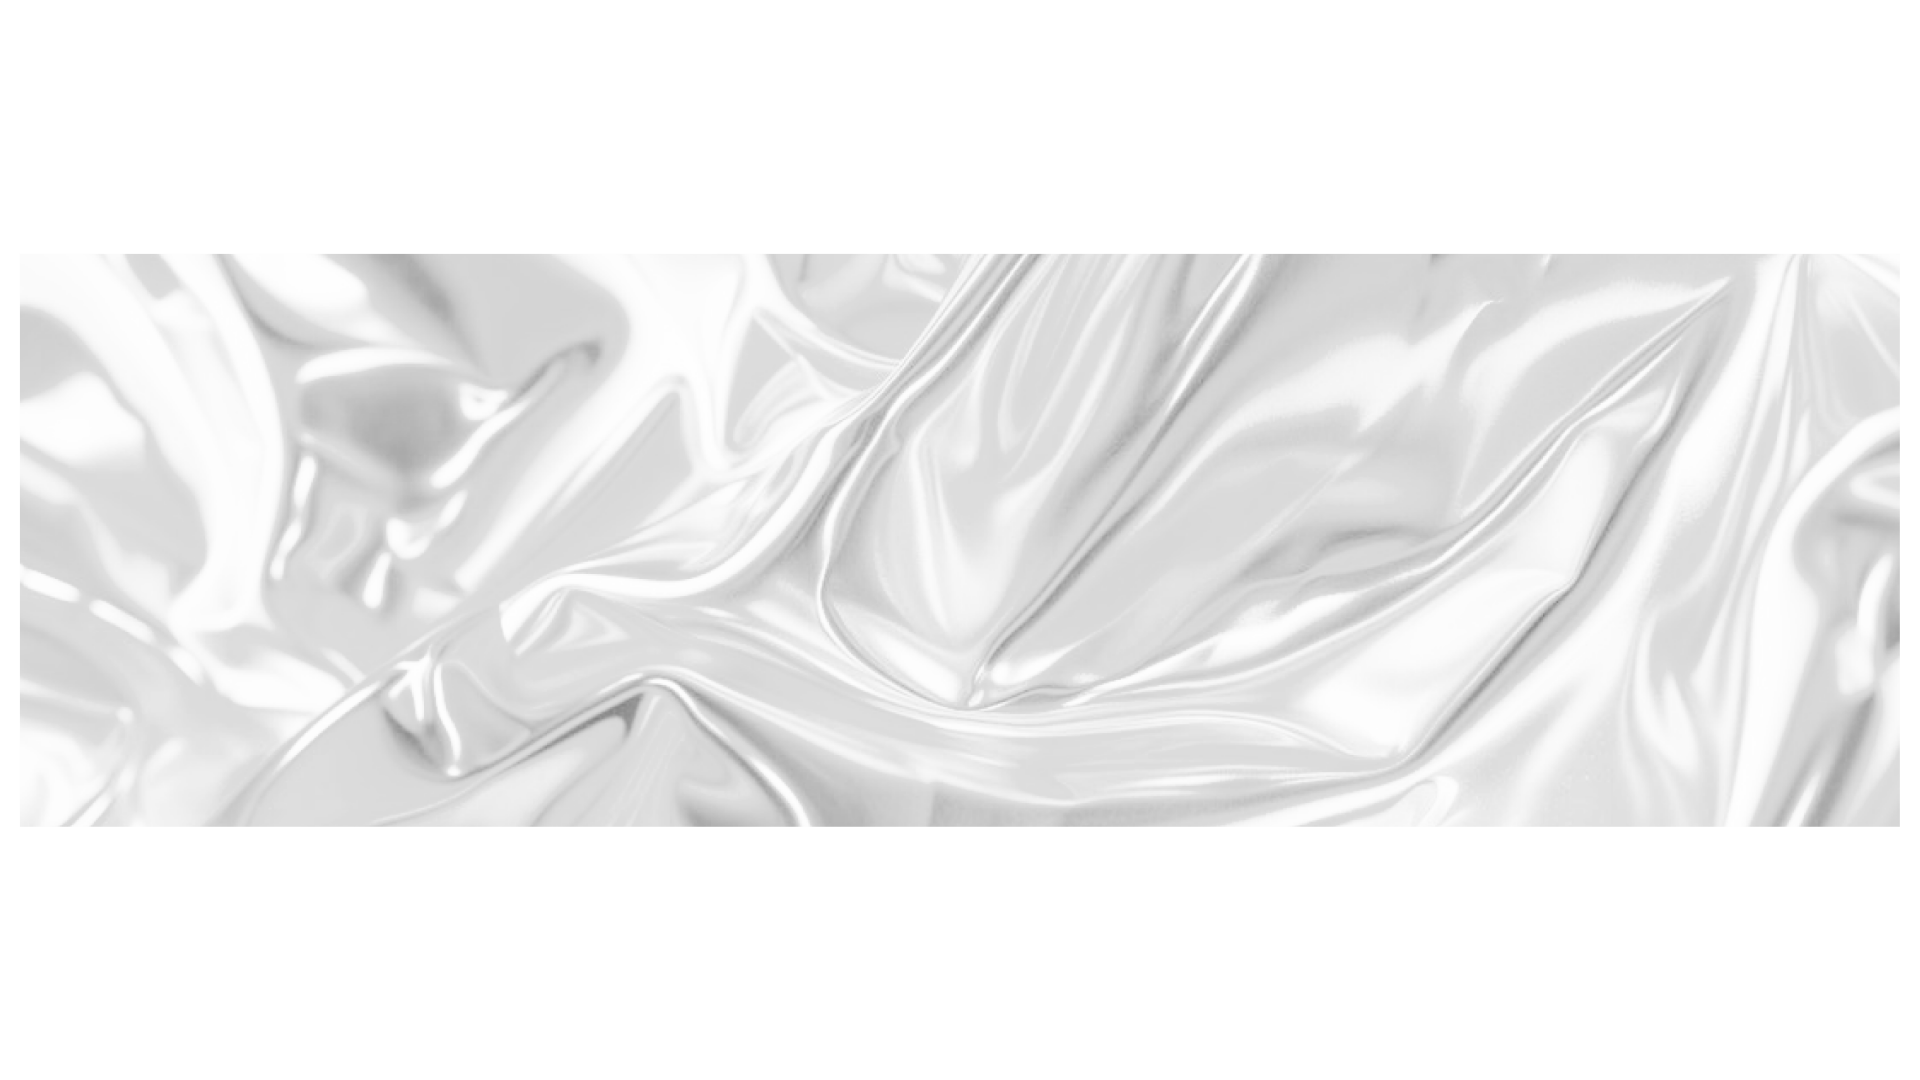
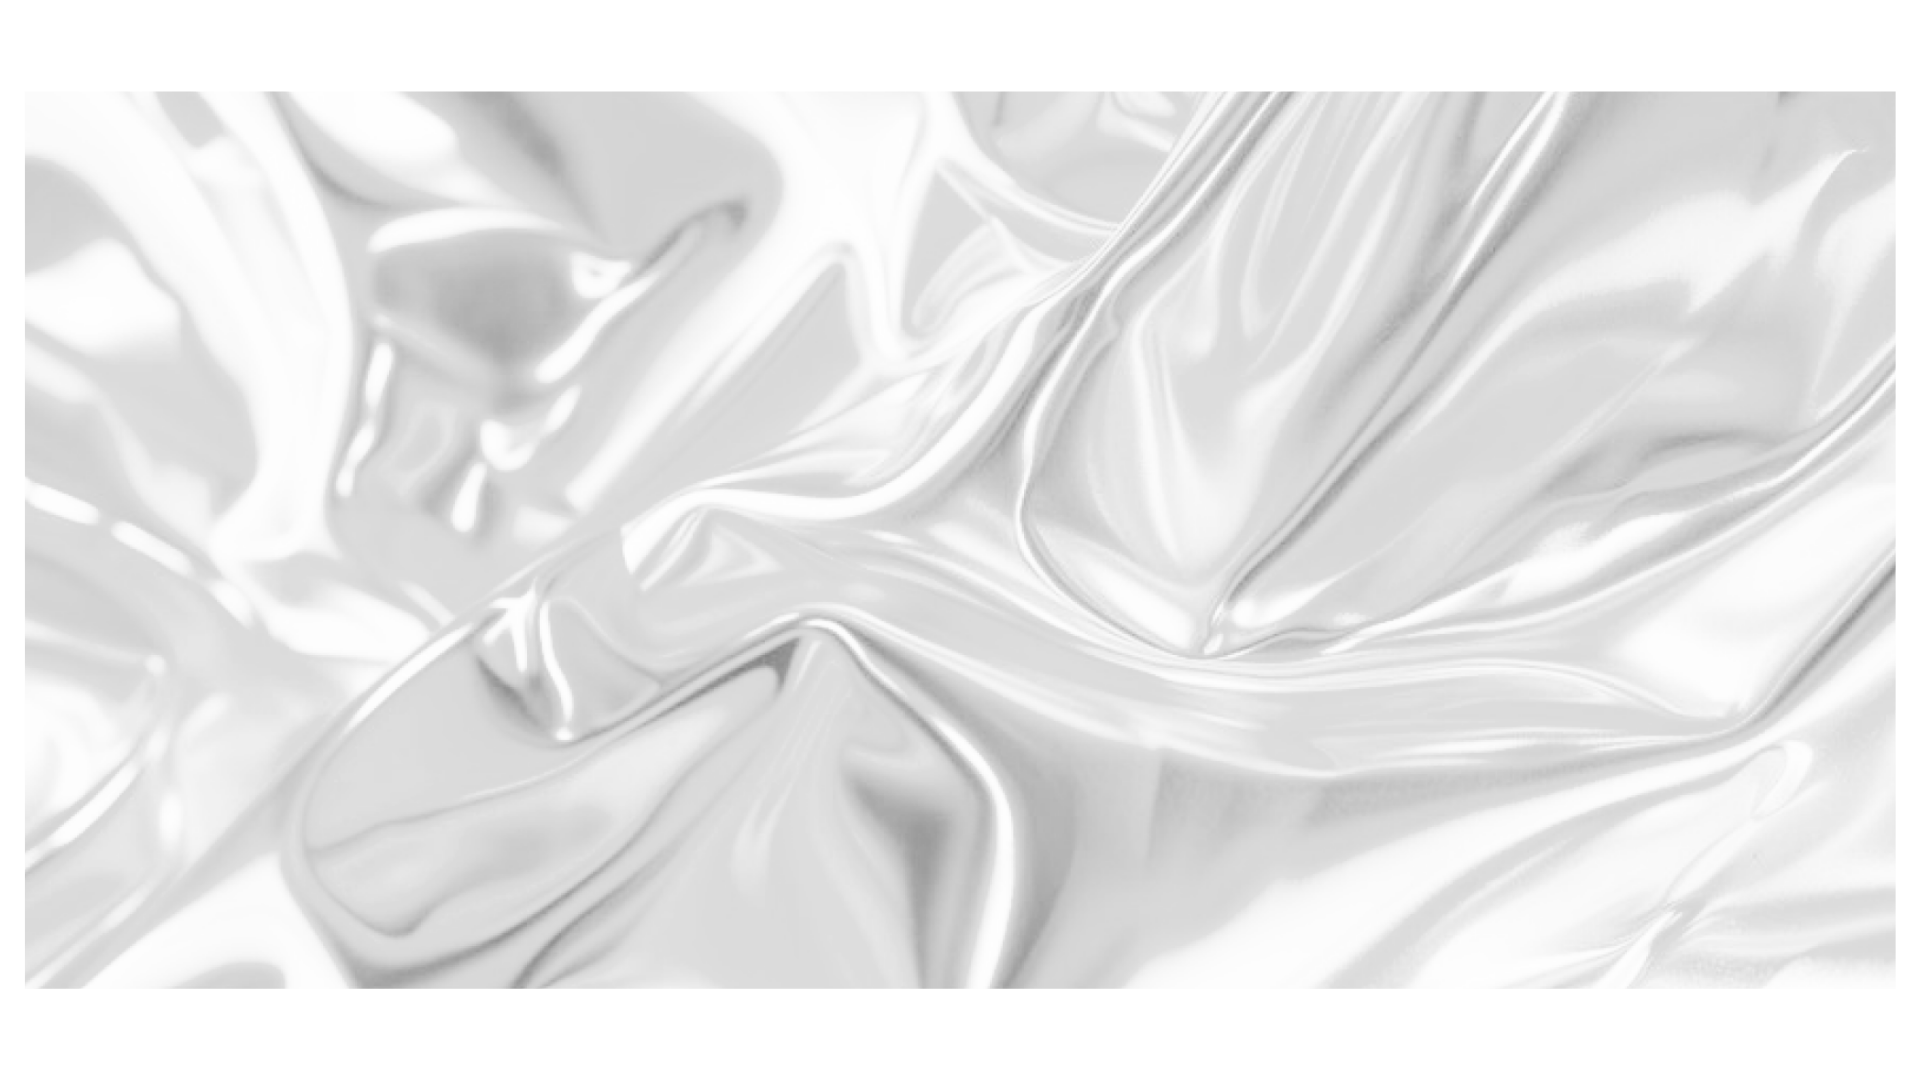
front image changes

diff --git a/index.html b/index.html
@@ -280,7 +280,8 @@
 
         .frontPhoto img{
             width: 100%;
-            height: auto;
+            height: 500px;
+            object-fit: fill;
         }
 
         .frontPhoto .btn{
